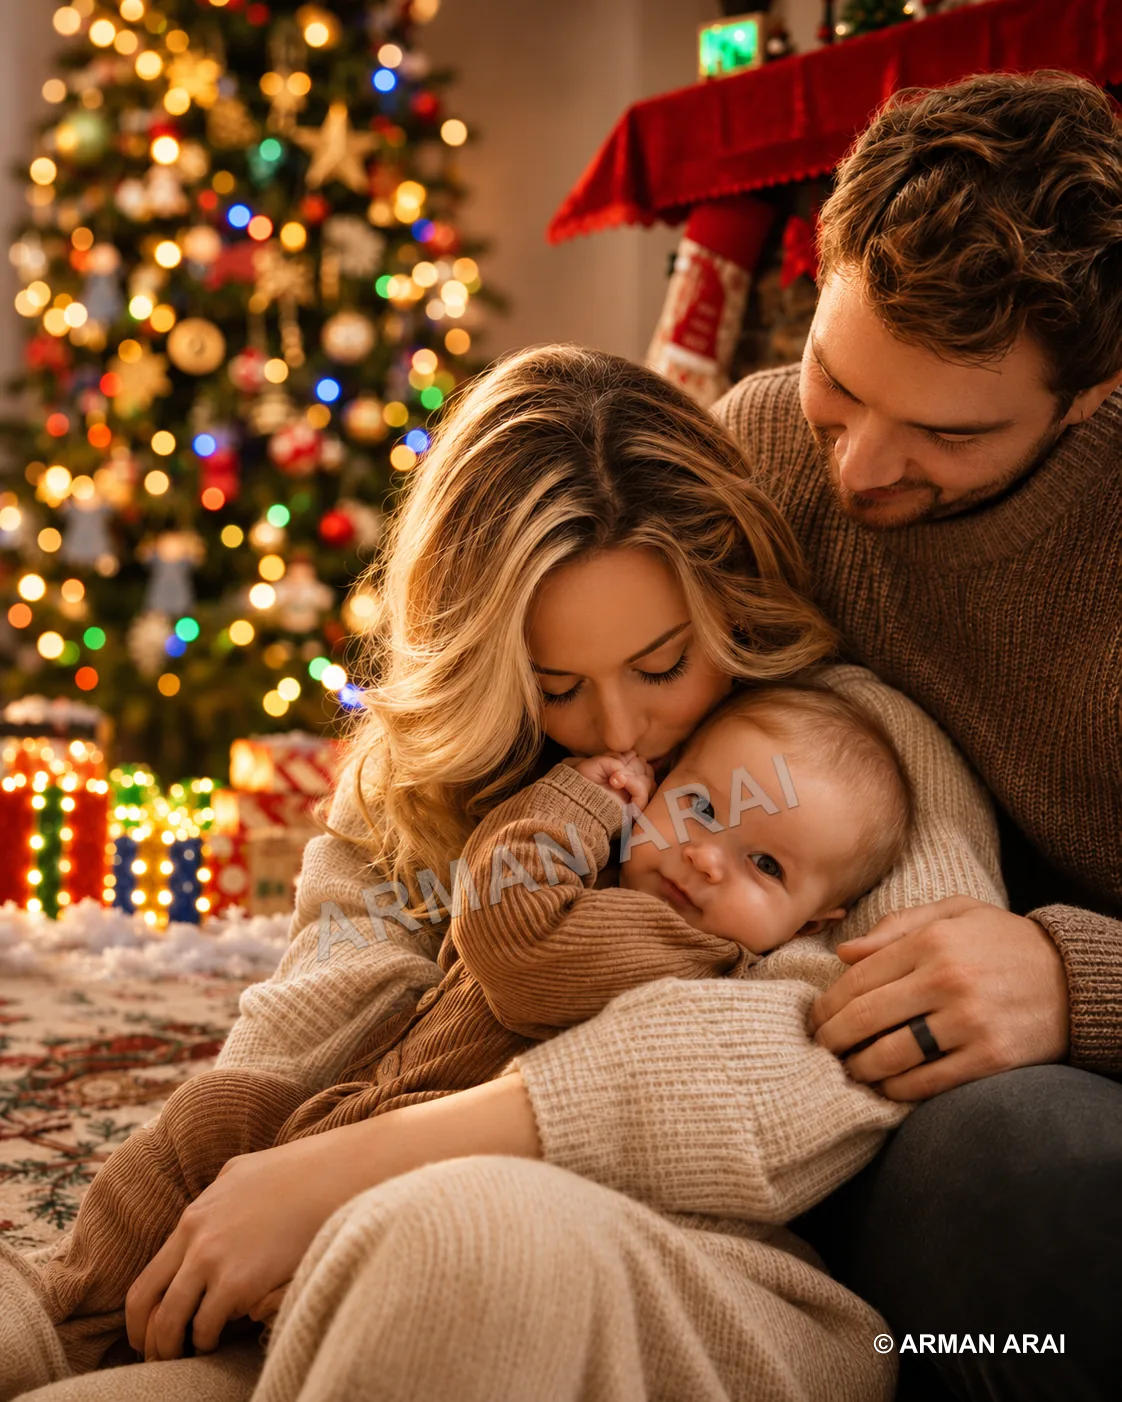
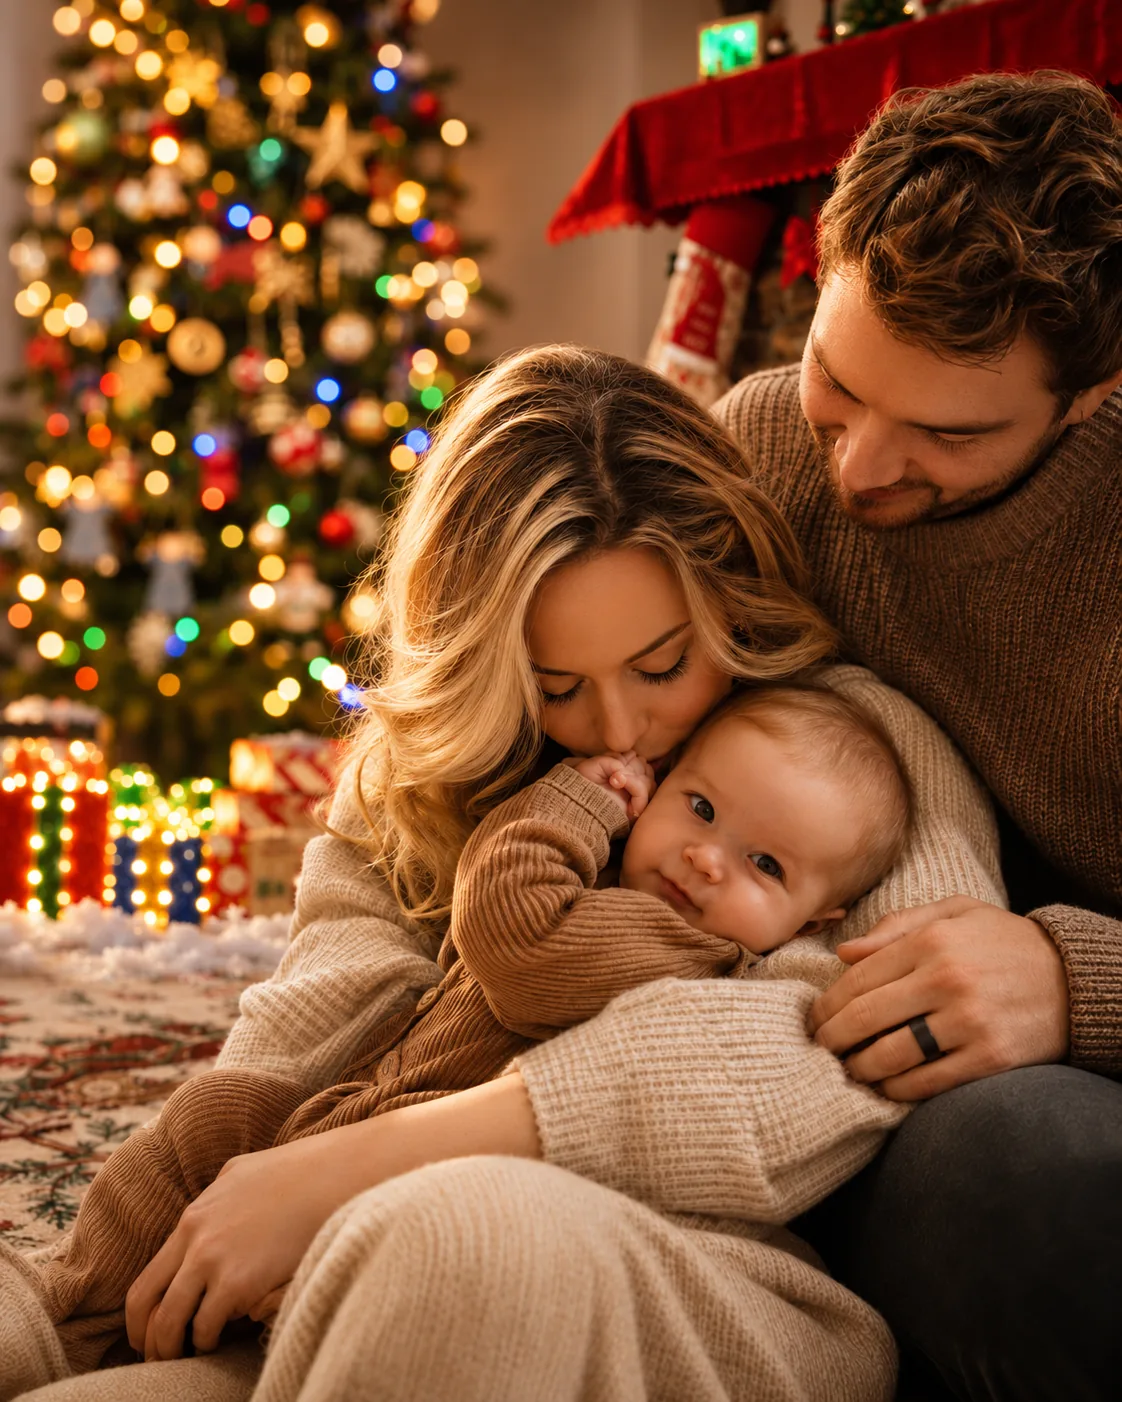
Remove unrequested Christmas photo watermarks

Changed region(s): [[0.2807, 0.5214, 0.7175, 0.6748], [0.7799, 0.9508, 0.967, 0.9815]]

diff --git a/components/christmas/ChristmasExperience.tsx b/components/christmas/ChristmasExperience.tsx
@@ -131,21 +131,21 @@ export default function ChristmasExperience({ preview = false }: { preview?: boo
         <div className="xm-hero-stars" aria-hidden="true"><span>✧</span><span>✦</span><span>✧</span><span>✦</span></div>
         <div className="xm-hero-copy"><p className="xm-eyebrow"><span /> A VERY NORTH VANCOUVER CHRISTMAS · 2026 <span /></p><h1>Come in.<br /><em>It’s Christmas.</em></h1><p className="xm-lead">A fireside kind of Christmas. The people you love.<br className="xm-desktop-break" /> And a little visit from Santa, included.</p><a href="#booking" className="xm-button">Find your Christmas moment <Arrow /></a><p className="xm-hero-dates">NOVEMBER 9 – DECEMBER 20 <span>✦</span> NORTH VANCOUVER, BC</p></div>
         <div className="xm-photo-trio">
-          <figure className="xm-photo xm-photo-left"><ProtectedPhoto src="/christmas/santa-portrait-2026.webp?v=protected-1" alt="Santa and a little boy sharing a playful moment beside the Christmas tree" width="1200" height="1789" loading="eager" /><figcaption>A little Santa magic <span>✧</span></figcaption></figure>
-          <figure className="xm-photo xm-photo-main"><ProtectedPhoto src="/christmas/family-portrait-2026.webp?v=protected-1" alt="Parents cuddling their baby by the Christmas tree and fireplace" width="1122" height="1402" fetchPriority="high" /><figcaption>The ones who make it Christmas.</figcaption><span className="xm-photo-seal" aria-hidden="true">Made for<br /><b>your</b><br />family</span></figure>
-          <figure className="xm-photo xm-photo-right"><ProtectedPhoto src="/christmas/family-window-2026.webp?v=protected-1" alt="A family together on a Christmas sofa beside a snowy forest window" width="1200" height="900" loading="eager" /><figcaption>A Christmas moment, together <span>✧</span></figcaption></figure>
+          <figure className="xm-photo xm-photo-left"><ProtectedPhoto src="/christmas/santa-portrait-2026.webp?v=clean-1" alt="Santa and a little boy sharing a playful moment beside the Christmas tree" width="1200" height="1789" loading="eager" /><figcaption>A little Santa magic <span>✧</span></figcaption></figure>
+          <figure className="xm-photo xm-photo-main"><ProtectedPhoto src="/christmas/family-portrait-2026.webp?v=clean-1" alt="Parents cuddling their baby by the Christmas tree and fireplace" width="1122" height="1402" fetchPriority="high" /><figcaption>The ones who make it Christmas.</figcaption><span className="xm-photo-seal" aria-hidden="true">Made for<br /><b>your</b><br />family</span></figure>
+          <figure className="xm-photo xm-photo-right"><ProtectedPhoto src="/christmas/family-window-2026.webp?v=clean-1" alt="A family together on a Christmas sofa beside a snowy forest window" width="1200" height="900" loading="eager" /><figcaption>A Christmas moment, together <span>✧</span></figcaption></figure>
         </div>
       </section>
       <div className="xm-ribbon"><span>PRIVATE FAMILY SESSIONS</span><Star /><span>$300 WITH SANTA · THREE CHRISTMAS SETS</span><Star /><span>PHOTOGRAPHS BY ARMAN ARAI</span></div>
 
       <section id="experience" className="xm-experience xm-wrap">
-        <div className="xm-story-image"><ProtectedPhoto src="/christmas/santa-portrait-2026.webp?v=protected-1" alt="Santa and a little boy laughing together in the Christmas studio" width="1200" height="1789" loading="lazy" /><div className="xm-story-caption">Psst… he’s making<br /><em>a little time for you.</em></div></div>
+        <div className="xm-story-image"><ProtectedPhoto src="/christmas/santa-portrait-2026.webp?v=clean-1" alt="Santa and a little boy laughing together in the Christmas studio" width="1200" height="1789" loading="lazy" /><div className="xm-story-caption">Psst… he’s making<br /><em>a little time for you.</em></div></div>
         <div className="xm-letter"><span className="xm-letter-stamp" aria-hidden="true">NORTH POLE<br />✦<br />SPECIAL DELIVERY</span><p className="xm-eyebrow">FOR THE LITTLE BELIEVERS. AND THE BIG ONES.</p><h2>A little wonder.<br /><em>A whole lot of Christmas.</em></h2><p>There’s a tree full of twinkling lights, a cozy corner by the fireplace, and room for your family to make a little magic of your own.</p><p>Every session includes Santa and photographs across all three Christmas sets. Read a story, share a wish, enjoy cookies and warm milk. Then watch the post for a Santa letter addressed to your little ones, with a small complimentary printed keepsake as our thank-you gift tucked inside.</p><div className="xm-letter-note"><span aria-hidden="true">♡</span><p>Shy around Santa? That’s okay. No lap-sitting required, no pressure to smile on cue. A parent can stay close, and your child sets the pace.</p></div><p className="xm-letter-signature">With a little Christmas magic,<br /><span>Arman</span></p></div>
       </section>
 
       <section className="xm-portrait-gallery xm-wrap" aria-label="More Christmas portraits">
-        <figure><ProtectedPhoto src="/christmas/toddler-reindeer-2026.webp?v=protected-1" alt="A smiling toddler riding a plush Christmas reindeer beside the tree" width="1024" height="1536" loading="lazy" /><figcaption>A little reindeer joy.</figcaption></figure>
-        <figure><ProtectedPhoto src="/christmas/reindeer-glow-2026.webp?v=protected-1" alt="A little girl cuddling an illuminated reindeer among snowy Christmas trees" width="1200" height="900" loading="lazy" /><figcaption>All aglow for Christmas.</figcaption></figure>
+        <figure><ProtectedPhoto src="/christmas/toddler-reindeer-2026.webp?v=clean-1" alt="A smiling toddler riding a plush Christmas reindeer beside the tree" width="1024" height="1536" loading="lazy" /><figcaption>A little reindeer joy.</figcaption></figure>
+        <figure><ProtectedPhoto src="/christmas/reindeer-glow-2026.webp?v=clean-1" alt="A little girl cuddling an illuminated reindeer among snowy Christmas trees" width="1200" height="900" loading="lazy" /><figcaption>All aglow for Christmas.</figcaption></figure>
       </section>
 
       <section id="packages" className="xm-packages"><div className="xm-wrap"><div className="xm-section-heading"><p className="xm-eyebrow">A LITTLE SOMETHING FOR YOUR FAMILY</p><h2>One session.<br /><em>All the magic.</em></h2><p>Family photographs, a private Santa visit, and memories to bring home.</p></div>
@@ -182,7 +182,7 @@ export default function ChristmasExperience({ preview = false }: { preview?: boo
             {!eligible.some(s => s.available) && !loading && <p>No appointments currently available. Please <a href="mailto:i@armanarai.com">email Arman</a>.</p>}
             {loading && <p aria-live="polite">Loading the booking calendar…</p>}
           </div>
-          <aside className="xm-cart"><p className="xm-eyebrow">A LITTLE CHRISTMAS, JUST FOR YOU</p><ProtectedPhoto src={pkg.santa ? "/christmas/santa-portrait-2026.webp?v=protected-1" : "/christmas/family-portrait-2026.webp?v=protected-1"} alt="A playful Christmas portrait with Santa" width="600" height="380" loading="lazy" /><h3>{pkg.name}</h3><p>About {pkg.minutes} minutes · {imageCount} edited photographs · {pkg.sets} Christmas sets</p><label className="xm-album-choice"><span><strong>{ALBUM_ADDON.name}</strong><small>10 pages · 20 photographs in each album. Hand-delivered across Greater Vancouver through Surrey.</small></span><select aria-label="Number of printed albums" value={albums} onChange={e=>setAlbums(Number(e.target.value))}><option value={0}>No albums</option><option value={1}>1 album · $67 + tax</option><option value={2}>2 albums · $122 + tax</option><option value={3}>3 albums · $167 + tax</option></select><small>First $67 · Second $55 · Third $45. Album buyers receive 20 edited digital photos.</small></label><div className="xm-cart-detail"><span>Your appointment</span><strong>{slot ? `${dateLabel(slot.date)} · ${timeLabel(slot.time)}` : "Choose your date + time"}</strong></div><div className="xm-cart-detail"><span>Santa</span><strong>{pkg.santa ? "Private visit included" : "Family session, without Santa"}</strong></div><div className="xm-cart-detail"><span>Location</span><strong>{data.location}</strong></div><div className="xm-cart-price"><span>Session</span><strong>{money(pkg.price)}</strong></div>{albums > 0 && <div className="xm-cart-detail"><span>{albums} printed album{albums > 1 ? "s" : ""}</span><strong>{money(quote.albumCents)}</strong></div>}<div className="xm-cart-detail"><span>GST (5%)</span><strong>{money(quote.gst)}</strong></div>{albums > 0 && <div className="xm-cart-detail"><span>PST (7% on albums)</span><strong>{money(quote.pst)}</strong></div>}<div className="xm-cart-price"><span>Total due</span><strong>{money(quote.total)}</strong></div><p className="xm-small">CAD · Digital gallery + mailed letter and printed keepsake · Paid invoice provided by Stripe.</p>
+          <aside className="xm-cart"><p className="xm-eyebrow">A LITTLE CHRISTMAS, JUST FOR YOU</p><ProtectedPhoto src={pkg.santa ? "/christmas/santa-portrait-2026.webp?v=clean-1" : "/christmas/family-portrait-2026.webp?v=clean-1"} alt="A playful Christmas portrait with Santa" width="600" height="380" loading="lazy" /><h3>{pkg.name}</h3><p>About {pkg.minutes} minutes · {imageCount} edited photographs · {pkg.sets} Christmas sets</p><label className="xm-album-choice"><span><strong>{ALBUM_ADDON.name}</strong><small>10 pages · 20 photographs in each album. Hand-delivered across Greater Vancouver through Surrey.</small></span><select aria-label="Number of printed albums" value={albums} onChange={e=>setAlbums(Number(e.target.value))}><option value={0}>No albums</option><option value={1}>1 album · $67 + tax</option><option value={2}>2 albums · $122 + tax</option><option value={3}>3 albums · $167 + tax</option></select><small>First $67 · Second $55 · Third $45. Album buyers receive 20 edited digital photos.</small></label><div className="xm-cart-detail"><span>Your appointment</span><strong>{slot ? `${dateLabel(slot.date)} · ${timeLabel(slot.time)}` : "Choose your date + time"}</strong></div><div className="xm-cart-detail"><span>Santa</span><strong>{pkg.santa ? "Private visit included" : "Family session, without Santa"}</strong></div><div className="xm-cart-detail"><span>Location</span><strong>{data.location}</strong></div><div className="xm-cart-price"><span>Session</span><strong>{money(pkg.price)}</strong></div>{albums > 0 && <div className="xm-cart-detail"><span>{albums} printed album{albums > 1 ? "s" : ""}</span><strong>{money(quote.albumCents)}</strong></div>}<div className="xm-cart-detail"><span>GST (5%)</span><strong>{money(quote.gst)}</strong></div>{albums > 0 && <div className="xm-cart-detail"><span>PST (7% on albums)</span><strong>{money(quote.pst)}</strong></div>}<div className="xm-cart-price"><span>Total due</span><strong>{money(quote.total)}</strong></div><p className="xm-small">CAD · Digital gallery + mailed letter and printed keepsake · Paid invoice provided by Stripe.</p>
             <button className="xm-button" disabled={!slot || !slot.available || busy} onClick={() => { setError(""); setStep("details"); }}>{data.mode === "preview" ? "Preview your booking" : "Reserve this appointment"} <Arrow /></button><p className="xm-cart-reassurance">{data.mode === "preview" ? "Preview only · No card details collected" : "Secure payment with Stripe · Full payment reserves your time"}</p>
           </aside>
         </div>}

diff --git a/app/christmas/page.tsx b/app/christmas/page.tsx
@@ -5,6 +5,6 @@ export const metadata: Metadata = {
   title: "Christmas Family & Santa Photography in North Vancouver · 2026",
   description: "A cozy Christmas photography experience in North Vancouver. One $300 CAD session with Santa included, plus GST, with three styled sets, a mailed Santa letter and printed keepsake. Approximately 45 minutes. November 9–December 20. Optional 10-page albums with 20 photographs, hand-delivered.",
   alternates: { canonical: "/christmas" },
-  openGraph: { title: "Christmas feels better together | Arman Arai", description: "North Vancouver Christmas photography. $300 with Santa included, plus $15 GST ($315 total).", url: "/christmas", images: [{ url: "/christmas/family-window-2026.webp?v=protected-1", width: 1200, height: 900, alt: "A family together in the Christmas studio beside a snowy forest window" }] },
+  openGraph: { title: "Christmas feels better together | Arman Arai", description: "North Vancouver Christmas photography. $300 with Santa included, plus $15 GST ($315 total).", url: "/christmas", images: [{ url: "/christmas/family-window-2026.webp?v=clean-1", width: 1200, height: 900, alt: "A family together in the Christmas studio beside a snowy forest window" }] },
 };
 export default function ChristmasPage() { return <ChristmasExperience />; }

diff --git a/app/christmas/preview/page.tsx b/app/christmas/preview/page.tsx
@@ -4,6 +4,6 @@ export const metadata: Metadata = {
   title: "Christmas with Santa · North Vancouver · Design preview",
   description: "Private design preview: one $300 CAD Christmas session with Santa, plus $15 GST ($315 total). North Vancouver. Every day 11 am–8 pm, November 1–December 20.",
   robots: { index: false, follow: false }, alternates: { canonical: "/christmas" },
-  openGraph: { title: "Christmas with Santa · North Vancouver", description: "$300 CAD with Santa included, plus $15 GST ($315 total). Private design preview.", images: [{ url: "/christmas/family-window-2026.webp?v=protected-1", alt: "A family together beside a snowy forest window" }] },
+  openGraph: { title: "Christmas with Santa · North Vancouver", description: "$300 CAD with Santa included, plus $15 GST ($315 total). Private design preview.", images: [{ url: "/christmas/family-window-2026.webp?v=clean-1", alt: "A family together beside a snowy forest window" }] },
 };
 export default function ChristmasPreviewPage() { return <ChristmasExperience preview />; }
